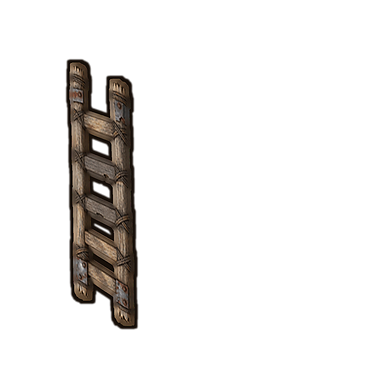
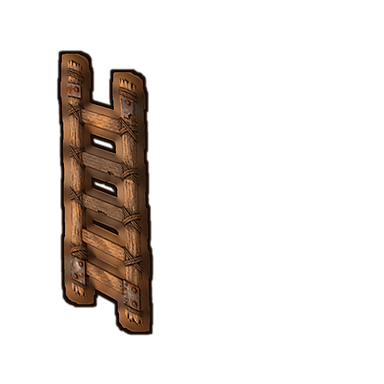
Portable ladder: install redraw 8 (Graphic_Multi, drawSize 1.5, RM_Ladder offsets); legibility pass

Changed region(s): [[0.125, 0.125, 0.4062, 0.875]]

diff --git a/src/RimMandrake/FlowWorks/art_source/LadderPortable/gen_a8.py b/src/RimMandrake/FlowWorks/art_source/LadderPortable/gen_a8.py
@@ -11,17 +11,33 @@ import gen_a2 as A2
 import gen_a7 as A7
 
 # src TL,TR,BR,BL on the 384 canvas; west = wall at the left (cell edge x=64); right rail starts ~0.16 cell lower
-W = [(70, 56), (150, 98), (156, 340), (76, 296)]
-S = [(138, 176), (246, 176), (250, 280), (134, 280)]   # drawn to y=280, cut at 270: no keyline across the hidden foot
+W = [(64, 50), (168, 96), (176, 344), (70, 296)]
+S = [(124, 150), (260, 150), (266, 280), (118, 280)]   # drawn to y=280, cut at 270: no keyline across the hidden foot
+
+TARGET = (122, 88, 58)   # RM_Ladder's wood mean; ours is greyer
+
+
+def warm(im):
+    import numpy as np
+    a = np.array(im, float); m = (a[..., 3] > 200) & (a[..., :3].sum(-1) > 150)
+    mean = a[m][:, :3].mean(0)
+    g = np.clip(np.array(TARGET) / mean, 0.8, 1.6)
+    rgb = a[..., :3] * g
+    lum = rgb.mean(-1, keepdims=True); rgb = lum + (rgb - lum) * 1.25      # a little more saturation
+    a[..., :3] = np.clip(rgb, 0, 255)
+    return Image.fromarray(a.astype("uint8"), "RGBA")
+
 
 if __name__ == "__main__":
     out = Path(sys.argv[1]); out.mkdir(parents=True, exist_ok=True)
     L = G.upright()
-    A2.THICK = 2
+    A2.THICK = 5
     north = Image.open(out / "optA7_north.png").convert("RGBA")
-    south = A2.facing(L, S, (0.0, 0.40))
+    A2.THICK = 4
+    south = A2.facing(L, S, (0.0, 0.46))
     a = south.getchannel("A"); a.paste(0, (0, 270, 384, 384)); south.putalpha(a)
-    A2.THICK = 3
+    A2.THICK = 6
     west = A2.facing(L, W)
+    north, south, west = warm(north), warm(south), warm(west)
     for f, im in {"north": north, "south": south, "west": west, "east": G.mirror(west)}.items():
         im.save(out / f"optA8_{f}.png")
